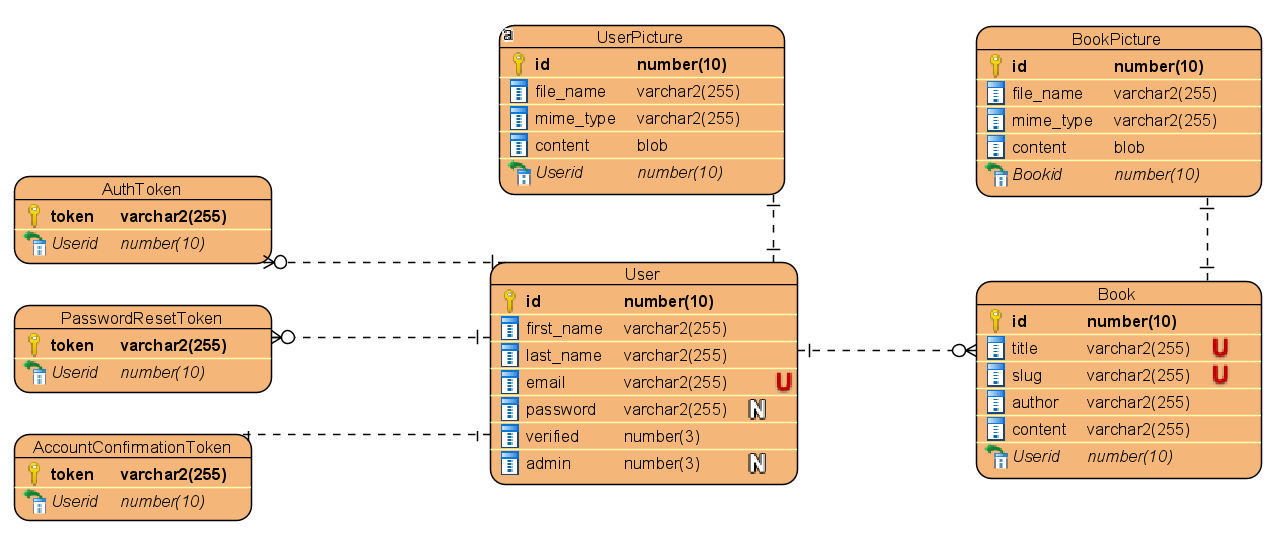
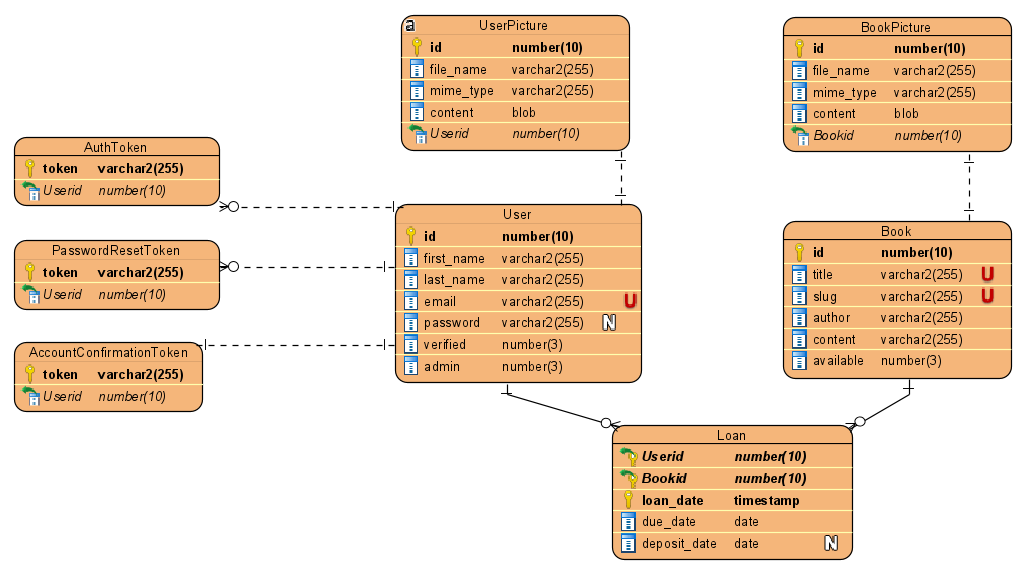
Add database remodeling changes

diff --git a/server/controllers/BookController.js b/server/controllers/BookController.js
@@ -79,26 +79,32 @@ class BookController {
 
     try {
       const book = await Database.Book.getBySlug(req.query.slug)
-
       if (!book) {
         res.statusCode = 404
         return res.json({ error: "book_not_found" })
-      } else if (book.user_id && book.user_id === user.id) {
-        res.statusCode = 403
-        return res.json({ error: "book_already_owned" })
-      } else if (book.user_id) {
-        res.statusCode = 403
-        return res.json({ error: "unavailable_book" })
       }
 
-      book.user_id = user.id
-      await book.save()
+      const { count } = await Database.Loan.findAndCountAll({
+        where: {
+          book_id: book.id,
+          deposit_date: null,
+        },
+      })
+      if (count === 1) {
+        res.statusCode = 403
+        return res.json({ error: "book_not_available" })
+      }
+
+      await Database.Loan.create({
+        user_id: user.id,
+        book_id: book.id,
+      })
 
       res.statusCode = 200
       res.json({
         success: true,
         book: book.id,
-        user: book.user_id,
+        user: user.id,
       })
     } catch (error) {
       console.log(error)

diff --git a/server/models/Loan.js b/server/models/Loan.js
@@ -1,0 +1,55 @@
+import { Sequelize, DataTypes, Model } from "sequelize"
+
+class Loan extends Model {}
+
+export default (sequelize, User, Book) =>
+  Loan.init(
+    {
+      user_id: {
+        primaryKey: true,
+        type: Sequelize.INTEGER,
+        allowNull: false,
+        onUpdate: "CASCADE",
+        onDelete: "CASCADE",
+        references: {
+          model: User,
+          key: "id",
+        },
+      },
+
+      book_id: {
+        primaryKey: true,
+        type: Sequelize.INTEGER,
+        allowNull: false,
+        onUpdate: "CASCADE",
+        onDelete: "CASCADE",
+        references: {
+          model: Book,
+          key: "id",
+        },
+      },
+
+      loan_date: {
+        primaryKey: true,
+        type: DataTypes.DATE,
+        allowNull: false,
+        defaultValue: Date.now(),
+      },
+
+      due_date: {
+        type: DataTypes.DATE,
+        allowNull: false,
+        defaultValue: Date.now(),
+      },
+
+      deposit_date: {
+        type: DataTypes.DATE,
+        allowNull: true,
+        defaultValue: null,
+      },
+    },
+    {
+      sequelize,
+      modelName: "Loan",
+    }
+  )

diff --git a/server/models/index.js b/server/models/index.js
@@ -5,9 +5,11 @@ import AccountConfirmationTokenModel from "./AccountConfirmationToken"
 import PasswordResetTokenModel from "./PasswordResetToken"
 import BookModel from "./Book"
 import BookPictureModel from "./BookPicture"
+import LoanModel from "./Loan"
 
 export default (sequelize) => {
   const User = UserModel(sequelize)
+  const Book = BookModel(sequelize)
   const UserPicture = UserPictureModel(sequelize, User)
   const AccountConfirmationToken = AccountConfirmationTokenModel(
     sequelize,
@@ -15,16 +17,17 @@ export default (sequelize) => {
   )
   const PasswordResetToken = PasswordResetTokenModel(sequelize, User)
   const AuthToken = AuthTokenModel(sequelize, User)
-  const Book = BookModel(sequelize, User)
   const BookPicture = BookPictureModel(sequelize, Book)
+  const Loan = LoanModel(sequelize, User, Book)
 
   return {
     User,
+    Book,
     UserPicture,
     AccountConfirmationToken,
     PasswordResetToken,
     AuthToken,
-    Book,
     BookPicture,
+    Loan,
   }
 }

diff --git a/server/models/Book.js b/server/models/Book.js
@@ -33,14 +33,15 @@ class Book extends Model {
     )
   }
 
+  // TODO : Change this method
   static async getAvailableBooks() {
     return await Book.findAll({
-      where: { user_id: null },
+      where: { available: true },
     })
   }
 }
 
-export default (sequelize, User) =>
+export default (sequelize) =>
   Book.init(
     {
       title: {
@@ -65,17 +66,11 @@ export default (sequelize, User) =>
         allowNull: false,
       },
 
-      user_id: {
-        type: DataTypes.INTEGER,
-        allowNull: true,
-        defaultValue: null,
-        onUpdate: "CASCADE",
-        onDelete: "CASCADE",
-        references: {
-          model: User,
-          key: "id",
-        },
-      },
+      // available: {
+      //   type: DataTypes.BOOLEAN,
+      //   allowNull: false,
+      //   defaultValue: true,
+      // },
     },
     { sequelize, modelName: "Book" }
   )

diff --git a/server/database.js b/server/database.js
@@ -20,7 +20,9 @@ const sync = false
 ;(async () => {
   if (sync) {
     console.log("Syncronizing all models")
-    await sequelize.sync({ force: true })
+    // await sequelize.sync({ force: true })
+    // await models.Book.sync({ force: true })
+    await models.Loan.sync({ force: true })
   }
 })()
 

diff --git a/pages/api/v1/books/borrow/[slug].js b/pages/api/v1/books/borrow/[slug].js
@@ -1,7 +1,7 @@
 import BookController from "@/server/controllers/BookController"
 
 export default async (req, res) => {
-  if (req.method === "PATCH") {
+  if (req.method === "POST") {
     await BookController.borrow(req, res)
   } else {
     res.statusCode = 405
